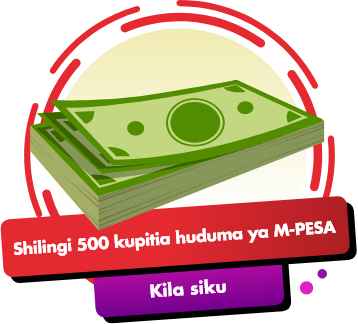
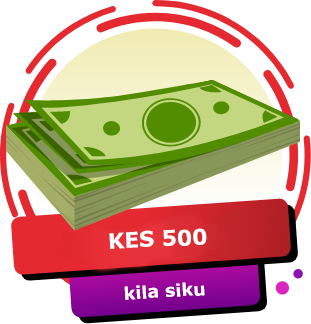
New changes

diff --git a/src/app/info/info.component.html b/src/app/info/info.component.html
@@ -586,19 +586,18 @@
                     </li>
                     <li>
                         <p style="text-align:left">
-                            Each participant can unsubscribe from the Service and stop
-                            receiving any information about the Service by sending an
-                            SMS with one of the following unsubscription keywords to
-                            the short-codes: STOP, EXIT, OFF, 0, UNSUB.
+                            Each participant can unsubscribe from the Service and stop receiving any information about the Service via *456*20# or by sending an SMS with one of the following unsubscription keywords to the short-codes: STOP, EXIT, OFF, 0, UNSUB.
+                            <br><br>
+                            If after the participant chooses to send again an opt-in keyword to the
+            Short Code, he will be again considered as a participant in the Service and
+            his points will be retained.
                         </p>
                     </li>
                 </ol>
             </li>
         </ol>
         <p style="text-align:left">
-            If after the participant chooses to send again an opt-in keyword to the
-            Short Code, he will be again considered as a participant in the Service and
-            his points will be retained.
+            
         </p>
         <ol>
             <ol start="3">
@@ -703,7 +702,7 @@
                 <ol>
                     <li>
                         <p style="text-align:left">
-                            The period of July 2021– October 2021, service will award
+                            The period of August 2021– October 2021, service will award
                             daily and weekly prizes every Saturday and trimester prize.
                         </p>
                     </li>
@@ -750,14 +749,14 @@
                         <li>
                             <p style="text-align:left">
                                 The Daily prize winner will be declared/determined for
-                                the period of July 2021 – October 2021 via a draw on a
+                                the period of August 2021 – October 2021 via a draw on a
                                 daily basis including the days that weekly and Grand
                                 prizes are being awarded.
                             </p>
                         </li>
                         <li>
                             <p style="text-align:left">
-                                The daily prize winner will be awarded with 500 KES in
+                                The daily prize winner will be awarded with KES 500  in
                                 mobile money (M-PESA).
                             </p>
                         </li>
@@ -817,7 +816,7 @@
                         <li>
                             <p style="text-align:left">
                                 The Weekly prize winner will be declared/determined for
-                                the period of July 2021 – October 2021 via a draw on
+                                the period of August 2021 – October 2021 via a draw on
                                 the below Saturdays:
                             </p>
                         </li>
@@ -863,7 +862,7 @@
                         </td>
                         <td width="148">
                             <p>
-                                50,000 KES in CASH
+                                KES 50,000 in CASH
                             </p>
                         </td>
                     </tr>
@@ -880,7 +879,7 @@
                         </td>
                         <td width="148">
                             <p>
-                                50,000 KES in CASH
+                                KES 50,000 in CASH
                             </p>
                         </td>
                     </tr>
@@ -897,7 +896,7 @@
                         </td>
                         <td width="148">
                             <p>
-                                50,000 KES in CASH
+                                KES 50,000 in CASH
                             </p>
                         </td>
                     </tr>
@@ -914,7 +913,7 @@
                         </td>
                         <td width="148">
                             <p>
-                                50,000 KES in CASH
+                                KES 50,000 in CASH
                             </p>
                         </td>
                     </tr>
@@ -931,7 +930,7 @@
                         </td>
                         <td width="148">
                             <p>
-                                50,000 KES in CASH
+                                KES 50,000 in CASH
                             </p>
                         </td>
                     </tr>
@@ -948,7 +947,7 @@
                         </td>
                         <td width="148">
                             <p>
-                                50,000 KES in CASH
+                                KES 50,000 in CASH
                             </p>
                         </td>
                     </tr>
@@ -965,7 +964,7 @@
                         </td>
                         <td width="148">
                             <p>
-                                50,000 KES in CASH
+                                KES 50,000 in CASH
                             </p>
                         </td>
                     </tr>
@@ -982,7 +981,7 @@
                         </td>
                         <td width="148">
                             <p>
-                                50,000 KES in CASH
+                                KES 50,000 in CASH
                             </p>
                         </td>
                     </tr>
@@ -999,7 +998,7 @@
                         </td>
                         <td width="148">
                             <p>
-                                50,000 KES in CASH
+                                KES 50,000 in CASH
                             </p>
                         </td>
                     </tr>
@@ -1016,7 +1015,7 @@
                         </td>
                         <td width="148">
                             <p>
-                                50,000 KES in CASH
+                                KES 50,000 in CASH
                             </p>
                         </td>
                     </tr>
@@ -1033,7 +1032,7 @@
                         </td>
                         <td width="148">
                             <p>
-                                50,000 KES in CASH
+                                KES 50,000 in CASH
                             </p>
                         </td>
                     </tr>
@@ -1050,7 +1049,7 @@
                         </td>
                         <td width="148">
                             <p>
-                                50,000 KES in CASH
+                                KES 50,000 in CASH
                             </p>
                         </td>
                     </tr>
@@ -1066,7 +1065,7 @@
                 <ol start="2">
                     <li>
                         <p style="text-align:left">
-                            The weekly prize winner will be awarded 50,000 KES via
+                            The weekly prize winner will be awarded KES 50,000 via
                             M-PESA or in cash in case the user does not have M-PESA
                             account.
                         </p>
@@ -1129,7 +1128,7 @@
                         </li>
                         <li>
                             <p style="text-align:left">
-                                The Grand prize winner will be awarded with 250,000 KES
+                                The Grand prize winner will be awarded with KES 250,000
                                 on 30/10/2021 via M-PESA or in cash in case the user
                                 does not have M-PESA account.
                             </p>
